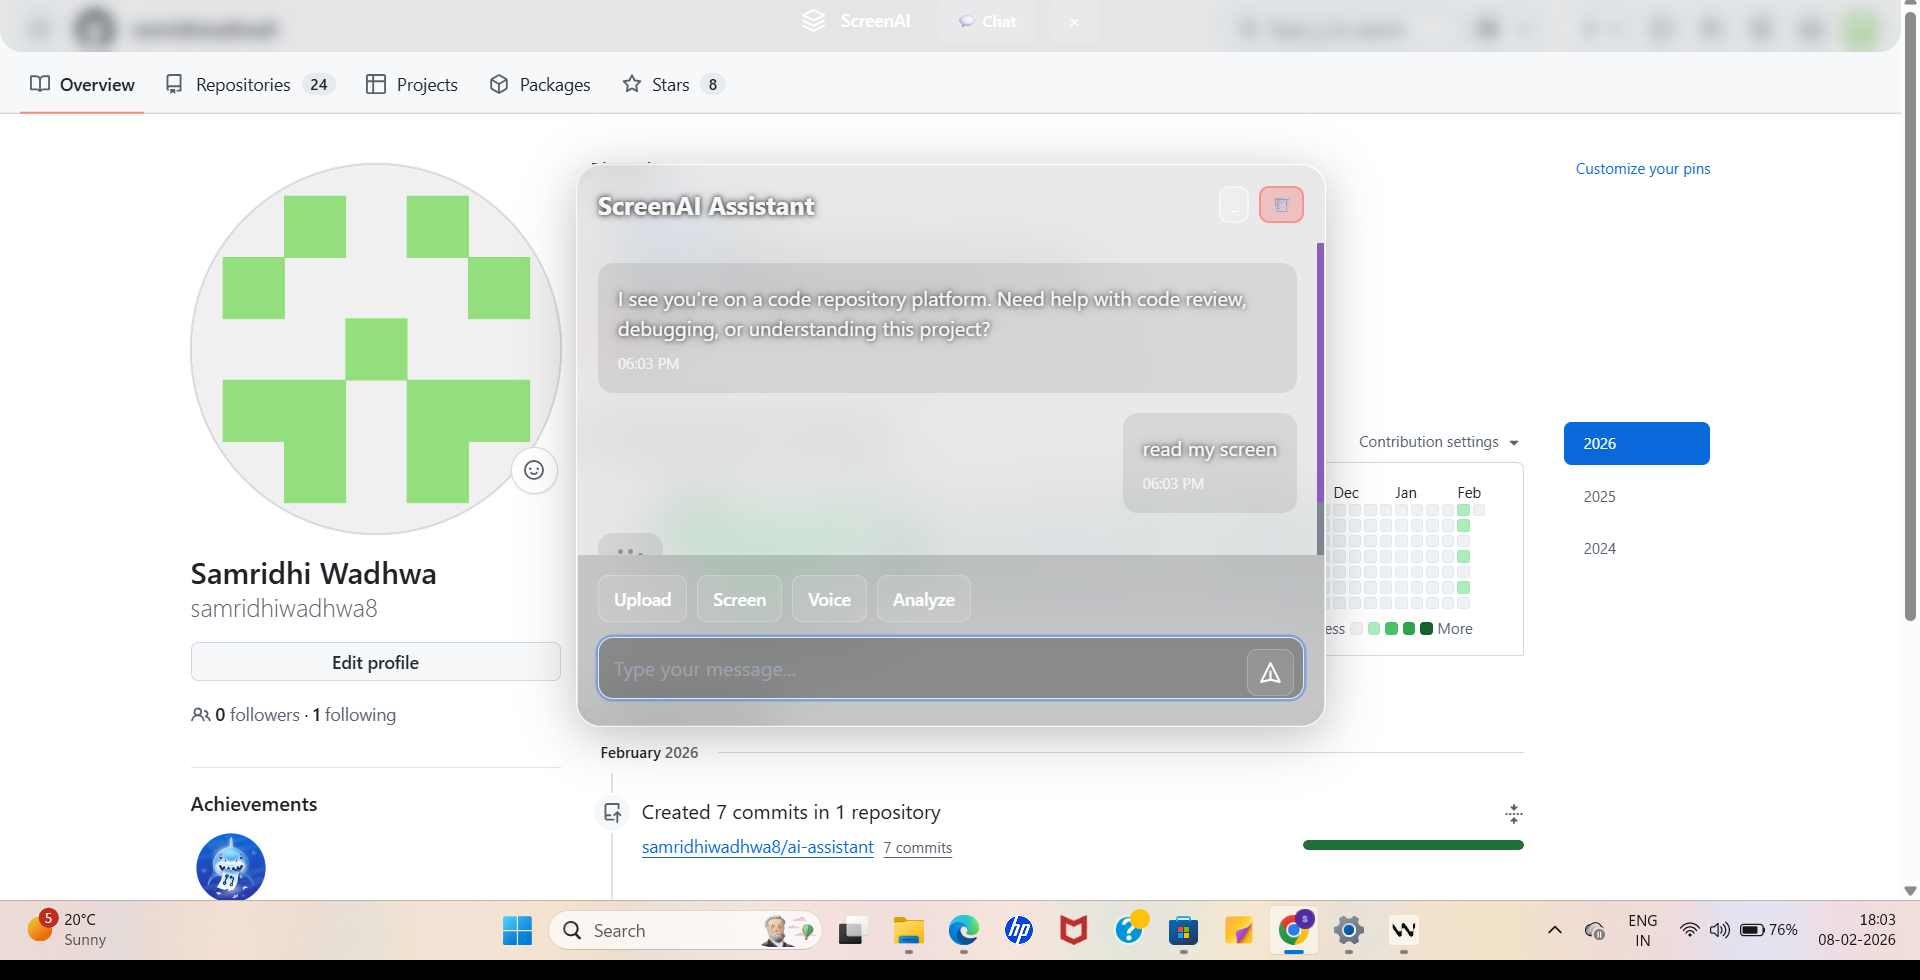
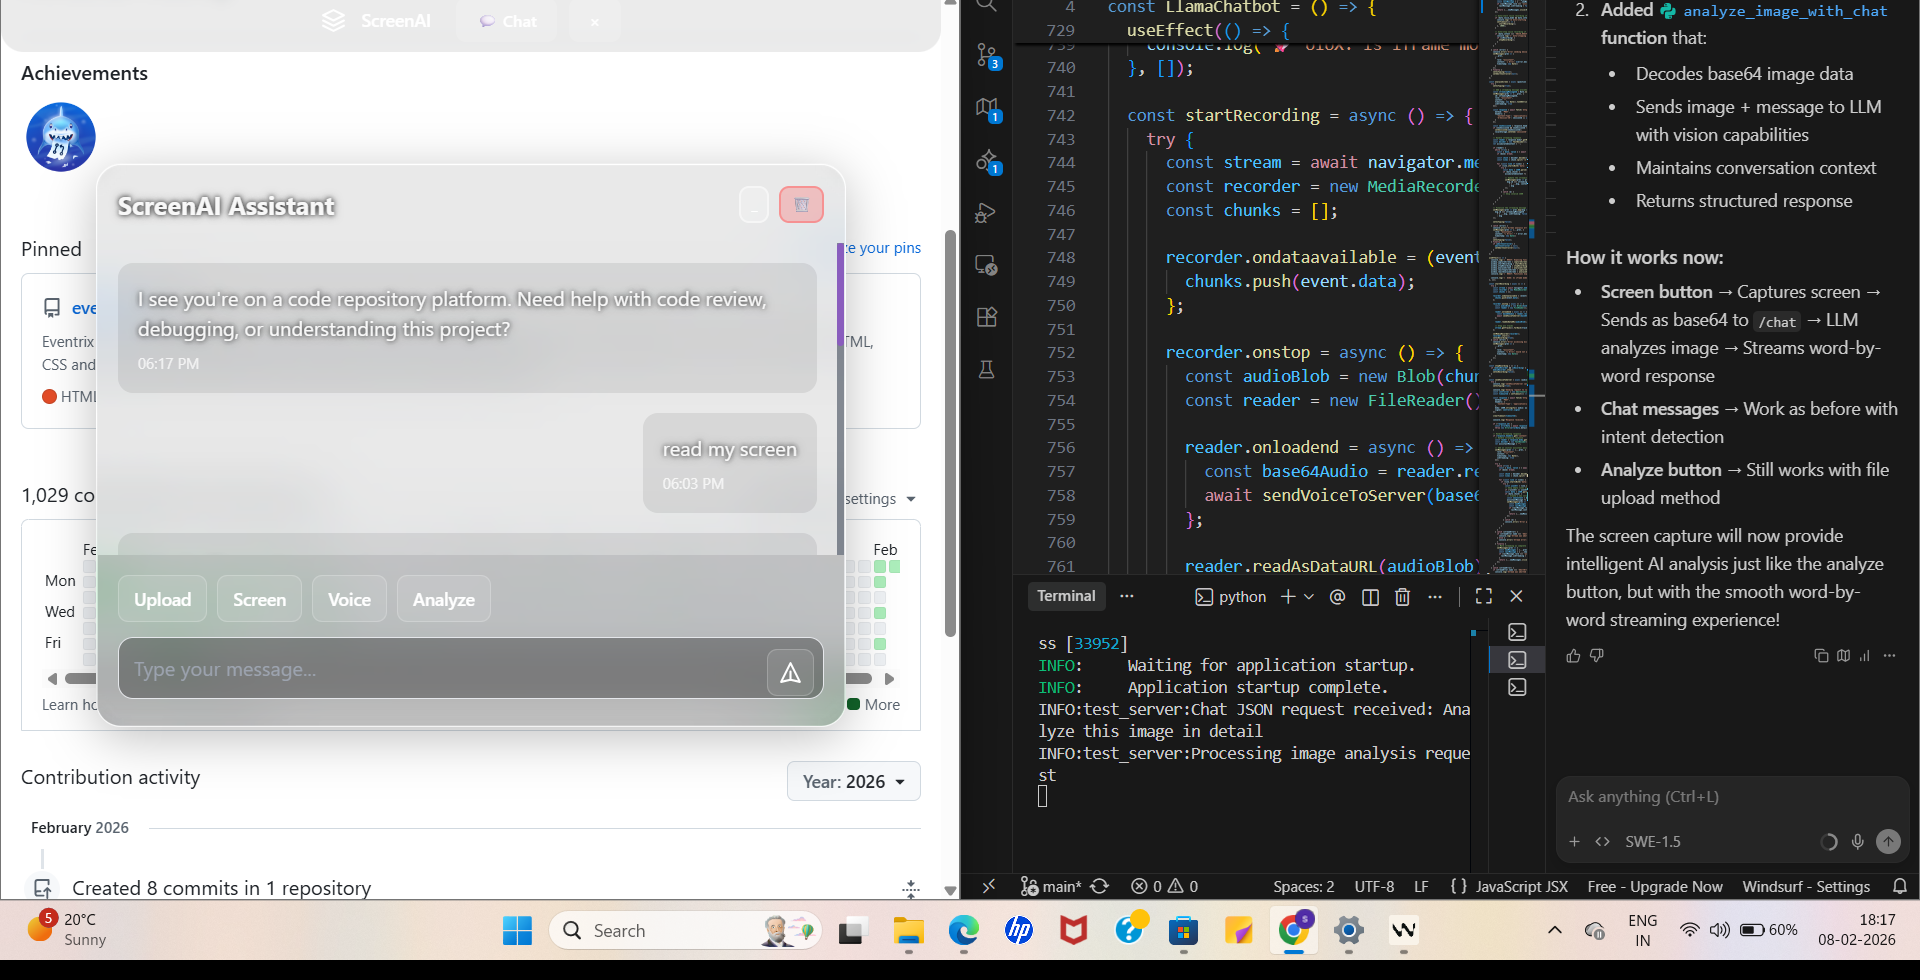
message

diff --git a/src/uiux.jsx b/src/uiux.jsx
@@ -408,18 +408,29 @@ const LlamaChatbot = () => {
 
   const clearAllMemory = () => {
     try {
-      localStorage.removeItem('chatHistory');
-      localStorage.removeItem('userPreferences');
-      localStorage.removeItem('userName');
+      // Stop any ongoing requests
+      if (abortController) {
+        abortController.abort();
+        setAbortController(null);
+      }
+      
+      // Stop recording if active
+      if (isRecording) {
+        stopRecording();
+      }
+      
+      // Reset conversation but keep user data
       setMessages([{
         role: "assistant",
-        content: "Memory cleared! I've forgotten everything. How can I help you today?",
+        content: "Conversation cleared! How can I help you today?",
         timestamp: new Date()
       }]);
-      setUserPreferences({});
-      setUserName('');
+      setIsTyping(false);
+      setInput('');
+      
+      console.log('🧹 Conversation cleared and ongoing requests stopped');
     } catch (error) {
-      console.error('Failed to clear memory:', error);
+      console.error('Failed to clear conversation:', error);
     }
   };
 
@@ -561,13 +572,11 @@ const LlamaChatbot = () => {
         });
         
       } else {
-        // Handle JSON response (from CHAT, VOICE, UNKNOWN intents)
-        console.log('Handling JSON response');
+        // Handle JSON response - convert to streaming for word-by-word display
+        console.log('Handling JSON response - converting to streaming');
         
-        // Add temporary typing indicator message
-        const typingMessageId = Date.now().toString();
+        // Add streaming message placeholder
         setMessages(prev => [...prev, {
-          id: typingMessageId,
           role: "assistant",
           content: "",
           timestamp: new Date(),
@@ -576,17 +585,36 @@ const LlamaChatbot = () => {
         
         const data = await response.json();
         console.log('Chat response:', data);
+        const responseText = data.response || "Sorry, I couldn't process that.";
         
-        // Replace typing message with actual response
-        setMessages(prev => prev.map(msg => 
-          msg.id === typingMessageId 
-            ? {
-                role: "assistant",
-                content: data.response || "Sorry, I couldn't process that.",
-                timestamp: new Date()
-              }
-            : msg
-        ));
+        // Simulate word-by-word streaming with reduced speed
+        const words = responseText.split(' ');
+        let currentContent = '';
+        
+        for (let i = 0; i < words.length; i++) {
+          currentContent += (i > 0 ? ' ' : '') + words[i];
+          setMessages(prev => {
+            const newMessages = [...prev];
+            const lastMessage = { ...newMessages[newMessages.length - 1] };
+            if (lastMessage.role === 'assistant') {
+              lastMessage.content = currentContent;
+            }
+            return [...newMessages.slice(0, -1), lastMessage];
+          });
+          
+          // Reduced delay between words for slower, more natural typing
+          await new Promise(resolve => setTimeout(resolve, 100));
+        }
+        
+        // Mark streaming as complete
+        setMessages(prev => {
+          const newMessages = [...prev];
+          const lastMessage = { ...newMessages[newMessages.length - 1] };
+          if (lastMessage.role === 'assistant') {
+            lastMessage.isStreaming = false;
+          }
+          return [...newMessages.slice(0, -1), lastMessage];
+        });
         
         // Auto-start voice recording if voice mode is activated
         if (data.voice_mode && data.intent === 'VOICE') {
@@ -913,14 +941,27 @@ const LlamaChatbot = () => {
       formData.append("file", blob);
       console.log('🚀 CAPTURE: FormData created');
 
-      // Use the analyze-screen endpoint with file upload for intelligent analysis
-      console.log('🚀 CAPTURE: Sending to analyze-screen endpoint with file...');
-      const response = await fetch("http://localhost:8000/process-screenshot?question=What's in this image?", {
-        method: "POST",
-        body: formData,
+      // Use the chat endpoint with image for AI analysis like the analyze button
+      console.log('🚀 CAPTURE: Sending to chat endpoint with image for AI analysis...');
+      
+      // Convert blob to base64
+      const base64Image = await new Promise((resolve) => {
+        const reader = new FileReader();
+        reader.onloadend = () => resolve(reader.result.split(',')[1]);
+        reader.readAsDataURL(blob);
+      });
+      
+      // Send to chat endpoint with image
+      const response = await fetch('http://localhost:8000/chat', {
+        method: 'POST',
         headers: {
+          'Content-Type': 'application/json',
           'X-Session-ID': sessionId || undefined
-        }
+        },
+        body: JSON.stringify({
+          message: "Analyze this image in detail",
+          image: base64Image
+        })
       });
 
       console.log('🚀 CAPTURE: Response received, status:', response.status);
@@ -937,20 +978,110 @@ const LlamaChatbot = () => {
         throw new Error(errorData.detail || `Server responded with ${response.status}`);
       }
 
-      // Handle JSON response (text only, no AI analysis)
-      const data = await response.json();
+      // Handle chat response with streaming
+      const contentType = response.headers.get('content-type');
       
-      setMessages(prev => {
-        const newMessages = prev.slice(0, -1);
-        return [
-          ...newMessages,
-          {
-            role: "assistant",
-            content: data.text || "No text was found in the image.",
-            timestamp: new Date(),
+      if (contentType && contentType.includes('text/event-stream')) {
+        // Handle streaming response
+        console.log('🚀 CAPTURE: Handling streaming response');
+        
+        // Add streaming message placeholder
+        setMessages(prev => [...prev, {
+          role: "assistant",
+          content: "",
+          timestamp: new Date(),
+          isStreaming: true
+        }]);
+
+        // Process the stream
+        const reader = response.body.getReader();
+        const decoder = new TextDecoder();
+        let buffer = '';
+
+        while (true) {
+          const { done, value } = await reader.read();
+          if (done) break;
+          
+          buffer += decoder.decode(value, { stream: true });
+          const lines = buffer.split('\n');
+          buffer = lines.pop() || '';
+          
+          for (const line of lines) {
+            if (!line.startsWith('data: ')) continue;
+            
+            try {
+              const data = JSON.parse(line.substring(6).trim());
+              if (data.chunk) {
+                setMessages(prev => {
+                  const newMessages = [...prev];
+                  const lastMessage = { ...newMessages[newMessages.length - 1] };
+                  if (lastMessage.role === 'assistant') {
+                    lastMessage.content += data.chunk;
+                  }
+                  return [...newMessages.slice(0, -1), lastMessage];
+                });
+              }
+            } catch (e) {
+              console.error('Error parsing chunk:', e);
+            }
           }
-        ];
-      });
+        }
+
+        // Mark streaming as complete
+        setMessages(prev => {
+          const newMessages = [...prev];
+          const lastMessage = { ...newMessages[newMessages.length - 1] };
+          if (lastMessage.role === 'assistant') {
+            lastMessage.isStreaming = false;
+          }
+          return [...newMessages.slice(0, -1), lastMessage];
+        });
+        
+      } else {
+        // Handle JSON response - convert to streaming for word-by-word display
+        console.log('🚀 CAPTURE: Handling JSON response - converting to streaming');
+        
+        // Add streaming message placeholder
+        setMessages(prev => [...prev, {
+          role: "assistant",
+          content: "",
+          timestamp: new Date(),
+          isStreaming: true
+        }]);
+        
+        const data = await response.json();
+        console.log('🚀 CAPTURE: Chat response:', data);
+        const responseText = data.response || "Sorry, I couldn't analyze that image.";
+        
+        // Simulate word-by-word streaming with reduced speed
+        const words = responseText.split(' ');
+        let currentContent = '';
+        
+        for (let i = 0; i < words.length; i++) {
+          currentContent += (i > 0 ? ' ' : '') + words[i];
+          setMessages(prev => {
+            const newMessages = [...prev];
+            const lastMessage = { ...newMessages[newMessages.length - 1] };
+            if (lastMessage.role === 'assistant') {
+              lastMessage.content = currentContent;
+            }
+            return [...newMessages.slice(0, -1), lastMessage];
+          });
+          
+          // Reduced delay between words for slower, more natural typing
+          await new Promise(resolve => setTimeout(resolve, 100));
+        }
+        
+        // Mark streaming as complete
+        setMessages(prev => {
+          const newMessages = [...prev];
+          const lastMessage = { ...newMessages[newMessages.length - 1] };
+          if (lastMessage.role === 'assistant') {
+            lastMessage.isStreaming = false;
+          }
+          return [...newMessages.slice(0, -1), lastMessage];
+        });
+      }
 
     } catch (error) {
       console.error('Error processing file:', error);

diff --git a/test_server.py b/test_server.py
@@ -176,16 +176,95 @@ def detect_intent(text: str) -> str:
     logger.info(f"Unknown intent detected")
     return 'UNKNOWN'
 
+async def analyze_image_with_chat(message: str, image_data: str, session_id: str):
+    """
+    Analyze image using LLM with vision capabilities.
+    """
+    try:
+        if not ollama:
+            return {
+                "response": "AI model not available for image analysis.",
+                "intent": "CHAT"
+            }
+        
+        # Decode base64 image
+        image_bytes = base64.b64decode(image_data)
+        
+        # Create conversation with image
+        if session_id not in conversation_store:
+            conversation_store[session_id] = []
+        
+        # Add user message to conversation
+        conversation_store[session_id].append({
+            "role": "user", 
+            "content": message,
+            "images": [image_bytes]
+        })
+        
+        # Keep last 4 messages for context
+        conversation_store[session_id] = conversation_store[session_id][-4:]
+        
+        try:
+            # Get response from LLM with vision
+            response = await ollama.chat(
+                model='llama3',
+                messages=conversation_store[session_id].copy()
+            )
+            
+            ai_response = response['message']['content']
+            
+            # Add to conversation history (without image to save memory)
+            conversation_store[session_id].append({
+                "role": "assistant",
+                "content": ai_response
+            })
+            
+            return {
+                "response": ai_response,
+                "intent": "CHAT"
+            }
+            
+        except Exception as e:
+            logger.error(f"Image analysis LLM error: {e}")
+            return {
+                "response": f"Sorry, I had trouble analyzing that image: {str(e)}",
+                "intent": "CHAT"
+            }
+            
+    except Exception as e:
+        logger.error(f"Image analysis error: {e}")
+        return {
+            "response": f"Error processing image: {str(e)}",
+            "intent": "ERROR"
+        }
+
 @app.post("/chat")
 async def chat_endpoint(request: Request):
     """
     Chat endpoint with intent detection.
     Routes to appropriate handler based on detected intent.
+    Handles both form data and JSON with images.
     """
     try:
         session_id = get_session_id(request)
         
-        # Read form data from request body
+        # Check if request is JSON (for image analysis) or form data
+        content_type = request.headers.get("content-type", "")
+        
+        if "application/json" in content_type:
+            # Handle JSON request with image
+            json_data = await request.json()
+            message = json_data.get("message", "")
+            image_data = json_data.get("image")
+            
+            logger.info(f"Chat JSON request received: {message}")
+            
+            # If image is provided, analyze it
+            if image_data:
+                logger.info("Processing image analysis request")
+                return await analyze_image_with_chat(message, image_data, session_id)
+        
+        # Handle form data (original behavior)
         form_data = await request.form()
         message = form_data.get("message", "")
         
@@ -276,7 +355,7 @@ async def chat_endpoint(request: Request):
     except Exception as e:
         logger.error(f"Chat endpoint error: {e}")
         return {
-            "response": f"Error processing your request: {str(e)}",
+            "response": f"Sorry, there was an error processing your request: {str(e)}",
             "intent": "ERROR"
         }
 
